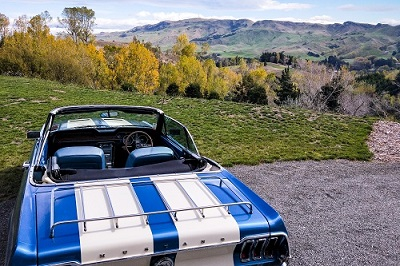
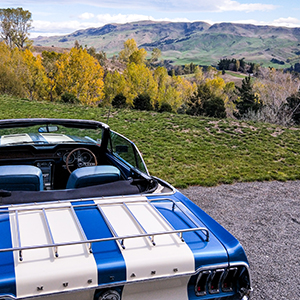
adjustments

diff --git a/Portfolio_Website/Photography/photographypage.html b/Portfolio_Website/Photography/photographypage.html
@@ -58,7 +58,7 @@
             <div class="Content">
                 
                 
-                <div class="imageboxh">
+                <div class="imagebox">
                 
                     <a href="PhotoFolio/Nap_Pier_JM.jpg">
                         
@@ -69,7 +69,7 @@
                 
                 </div>
                 
-                <div class="imageboxh">
+                <div class="imagebox">
                     
                     <a href="PhotoFolio/Mustang_low.jpg">
                 
@@ -79,7 +79,7 @@
                 
                 </div>
 
-                <div class="imageboxv">
+                <div class="imagebox">
                 
                     <a href="PhotoFolio/Sav_Hair.jpg"> 
                         
@@ -89,7 +89,7 @@
                 
                 </div>
                 
-                <div class="imageboxh">
+                <div class="imagebox">
                     <a href="PhotoFolio/Alx_Beach.jpg">
                     
                         <img src="PhotoFolio/SmallPhotos/Alx_Beach_small.jpg">
@@ -98,7 +98,7 @@
                 
                 </div>
   
-                <div class="imageboxh">
+                <div class="imagebox">
                     
                     <a href="PhotoFolio/Jess_BnW.jpg">
                         
@@ -108,13 +108,19 @@
                 
                 </div>
                 
-                <div class="imageboxv">
+                <div class="imagebox">
+                    
                 <a href="PhotoFolio/Matt.jpg">
                 <img src="PhotoFolio/SmallPhotos/Matt_Small.jpg">
+                    
                 </a>
+                    
+                    
                 </div>
                 
-                <div class="imageboxh">
+                
+                
+                <div class="imagebox">
                 
                     <a href="PhotoFolio/MustangHigh.jpg">
                 <img src="PhotoFolio/SmallPhotos/MustangHigh_small.jpg">
@@ -122,7 +128,9 @@
                 
                 </div>
                 
-                <div class="imageboxh">
+                
+                
+                <div class="imagebox">
                     
                     <a href="PhotoFolio/friendlyRuby.jpg">
                     
@@ -132,7 +140,9 @@
                 
                 </div>
                 
-                 <div class="imageboxv">
+                
+                
+                 <div class="imagebox">
                 
                 <a href="PhotoFolio/French_Hotties.jpg"> 
                     <img src="PhotoFolio/SmallPhotos/French_Hotties_small.jpg">
@@ -140,7 +150,7 @@
                 
                 </div>
 
-                <div class="imageboxv">
+                <div class="imagebox">
                 
                    <a href="PhotoFolio/Groomsmen.jpg">
                        <img src="PhotoFolio/SmallPhotos/Groomsmen_Small.jpg">
@@ -148,7 +158,9 @@
                 
                 </div>
                 
-                <div class="imageboxv">
+                
+                
+                <div class="imagebox">
                 
                         <a href="PhotoFolio/Ruby_Colours.jpg">
                     

diff --git a/Portfolio_Website/Photography/photographystyle.css b/Portfolio_Website/Photography/photographystyle.css
@@ -32,6 +32,7 @@ body{
 .Content{
    width:1200px;
    height:520px;
+    margin-top: 10px;
    overflow-y: scroll;
    float: left;
 }
@@ -84,24 +85,15 @@ a{
     float: right;
 }
 
-.imageboxv{
+.imagebox{
     width: 300px;
-    height: 400px;
-    padding: 10px 10px;
+    height: 300px;
+    padding: 20px 40px;
     margin-left: 10px;
     float: left;
 }
 
-.imageboxh{
-    width: 400px;
-    height: 300px;
-    padding: 40px 10px;
-    float:left;
-    
-}
-
 .descriptionsuper{
-    
     width: 230px;
     float: left;
     

diff --git a/Portfolio_Website/homepage.html b/Portfolio_Website/homepage.html
@@ -31,7 +31,7 @@
             
                 <div class="footer">
                 
-                    <p>PLACE OF ZEN l RASKINZENITH@GMAIL.COM l © 2018 ZENITH NELSON ALL RIGHTS RESERVED</p>
+                    <p>PLACE OF ZEN l RASKINZENITH@GMAIL.COM l 2018 ZENITH NELSON ALL RIGHTS RESERVED</p>
                     
                 
                 
